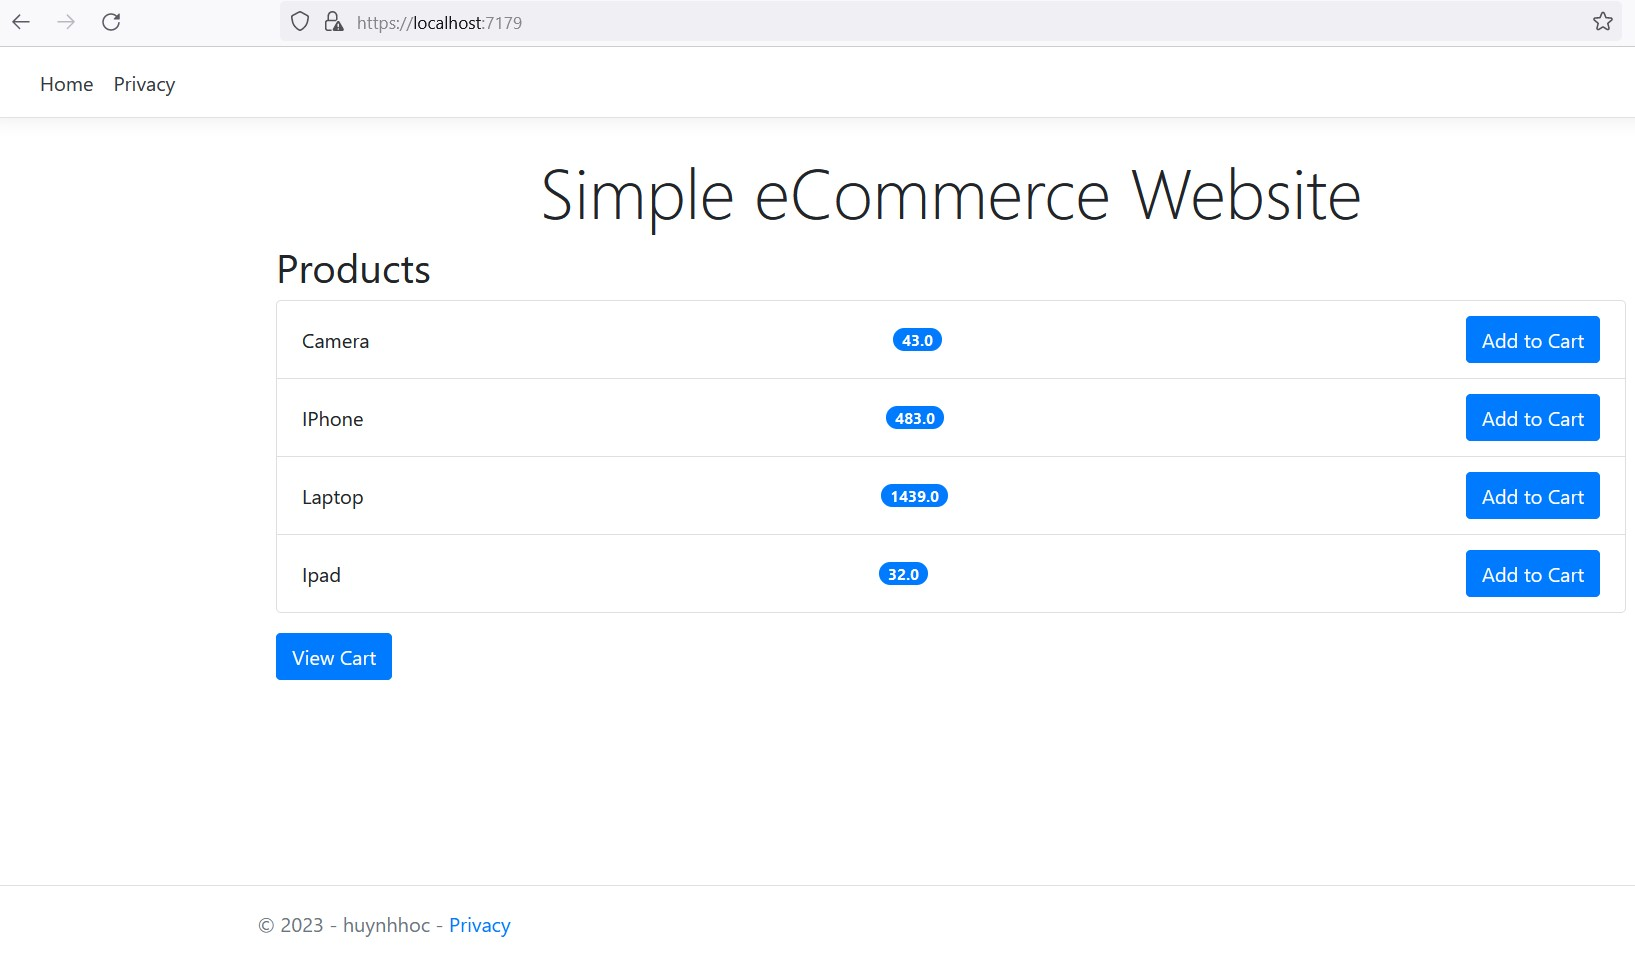
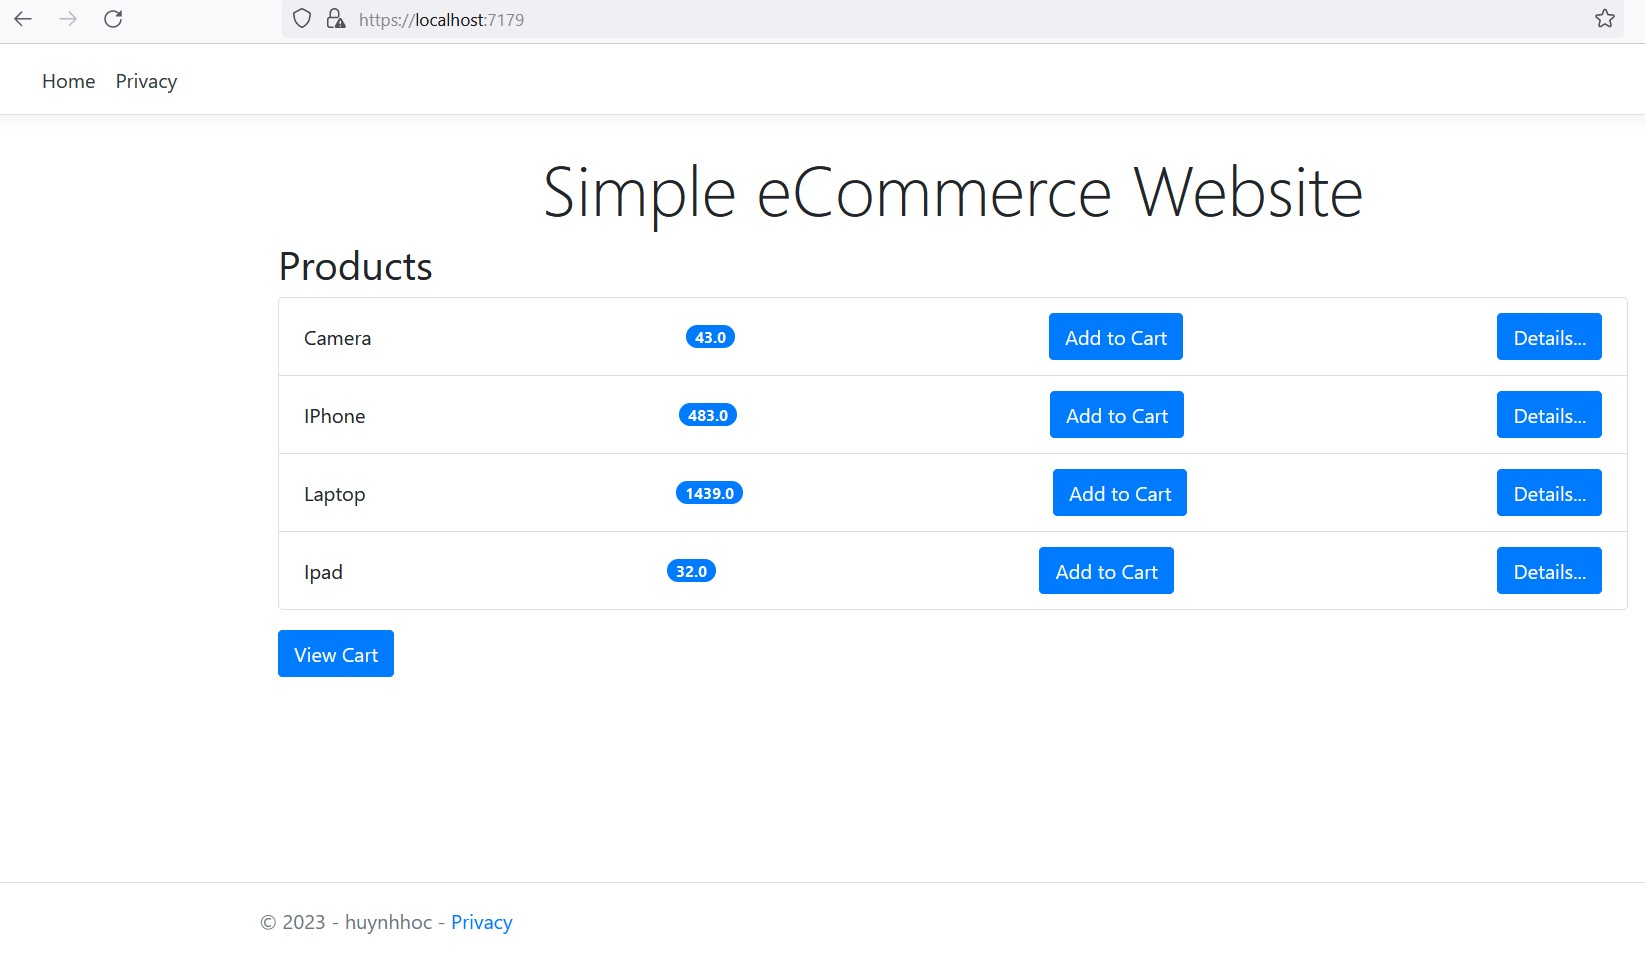
call API example by click Details... button

diff --git a/Controllers/HomeController.cs b/Controllers/HomeController.cs
@@ -60,6 +60,25 @@ namespace webapp.Controllers
             List<Product> products = _context.Products.ToList();
             return View("Index", products);
         }
+        // Action method to handle the form submission
+        [HttpPost]
+        public IActionResult Search(int id)
+        {
+            // Find the product by ID from the database
+            var product = _context.Products.FirstOrDefault(p => p.Id == id);
+
+            if (product != null)
+            {
+                // If product found, redirect to the SearchResults page with product information
+                return View("SearchResults", product);
+            }
+            else
+            {
+                // If product not found, redirect back to the Index page with an error message
+                TempData["ErrorMessage"] = "Product not found.";
+                return RedirectToAction("Index");
+            }
+        }
         private void AddToCartInSession(Product product)
         {
             var cart = GetCartFromSession();

diff --git a/Views/API/searchresults.cshtml.cs b/Views/API/searchresults.cshtml.cs
@@ -1,0 +1,12 @@
+using Microsoft.AspNetCore.Mvc;
+using Microsoft.AspNetCore.Mvc.RazorPages;
+
+namespace webapp.Views.API
+{
+    public class IndexModel : PageModel
+    {
+        public void OnGet()
+        {
+        }
+    }
+}
